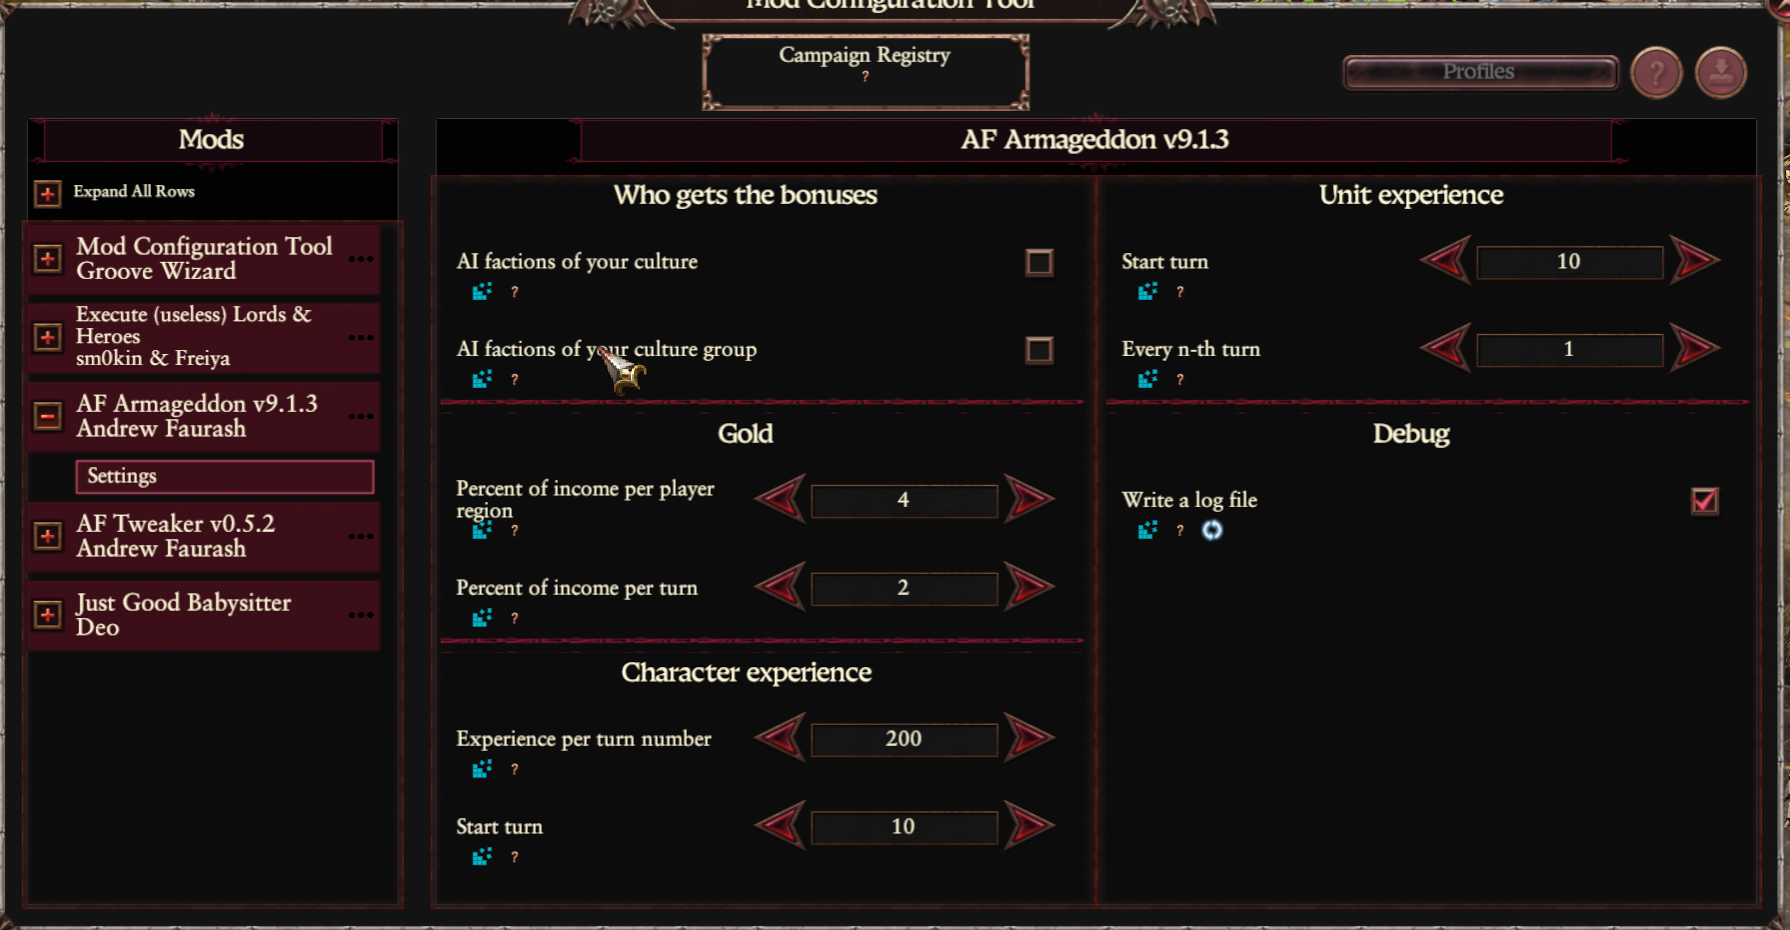
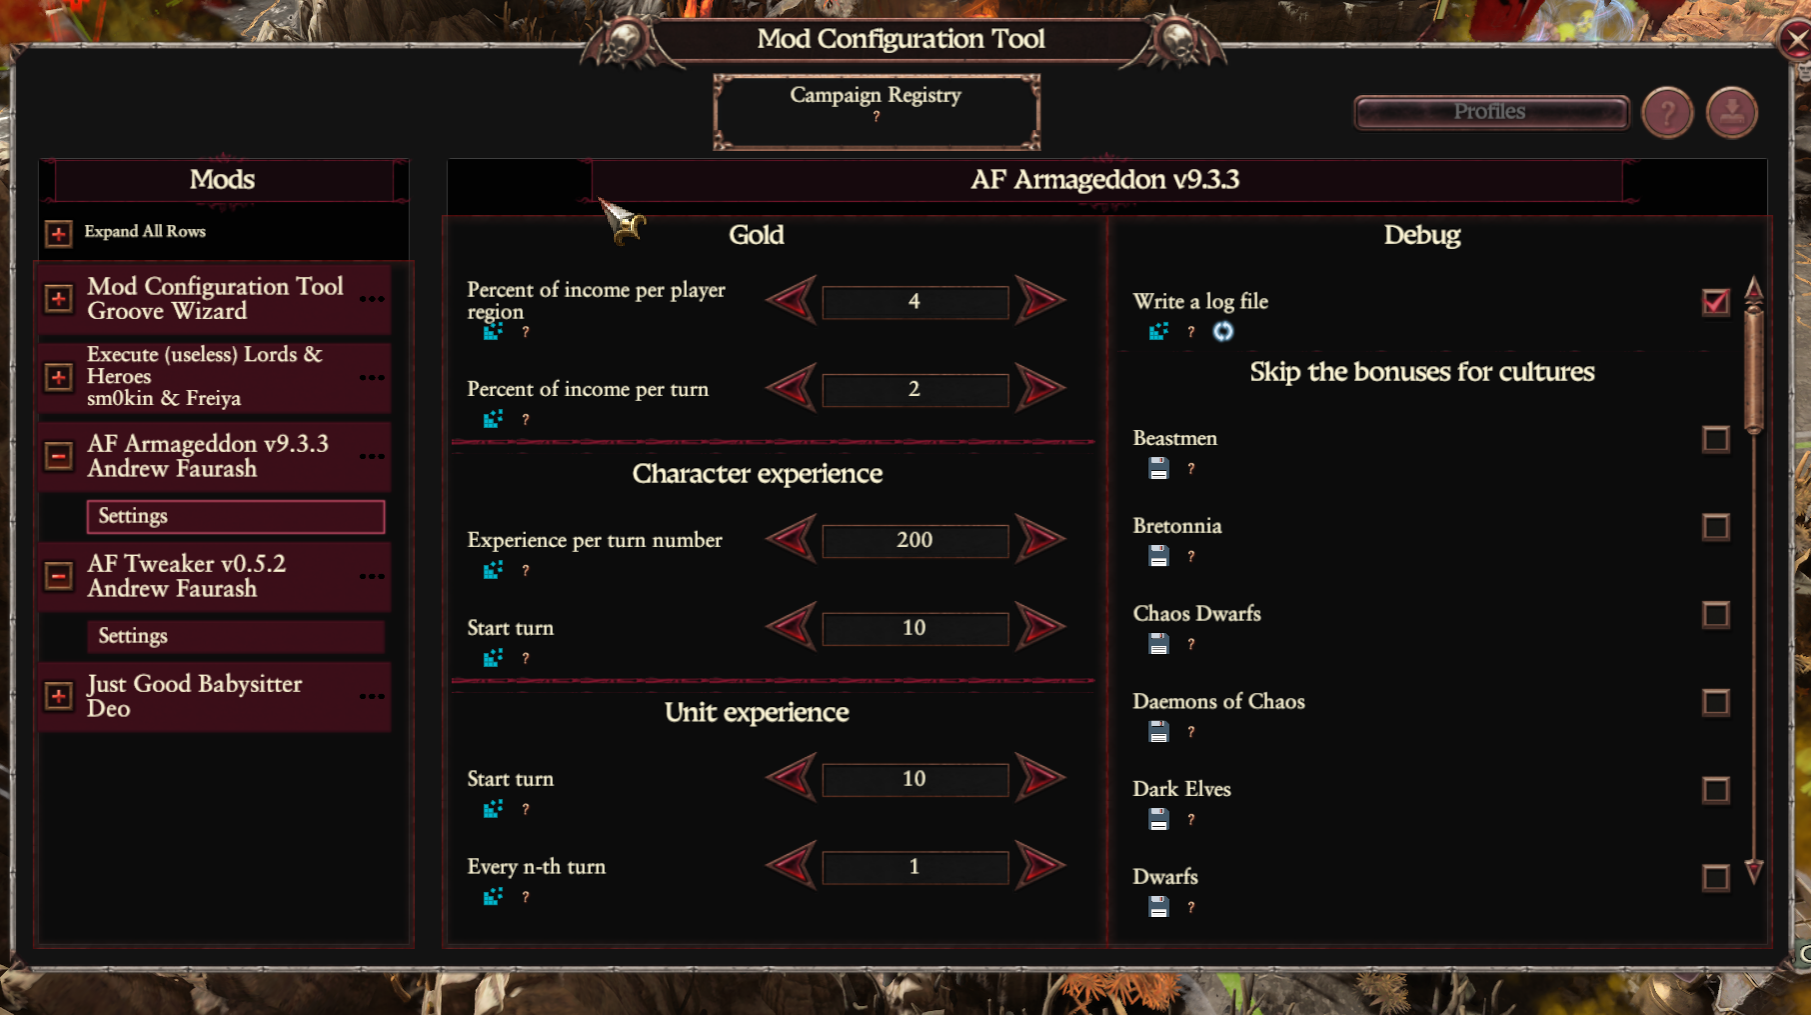
af-armageddon user guide: new settings screenshot
Retaken in the game for 9.3.3, with the section of the skipped cultures.

diff --git a/docs/af-armageddon-user-guide.md b/docs/af-armageddon-user-guide.md
@@ -25,6 +25,8 @@ You can add the mod to a running campaign. Don't remove it afterwards, see
 
 ## Settings
 
+![The settings window](../imgs/armageddon/armageddon-settings.png)
+
 Open the Mod Configuration Tool window in the game and choose **AF Armageddon**, then **Settings**.
 The version of the mod is shown in its title.
 
